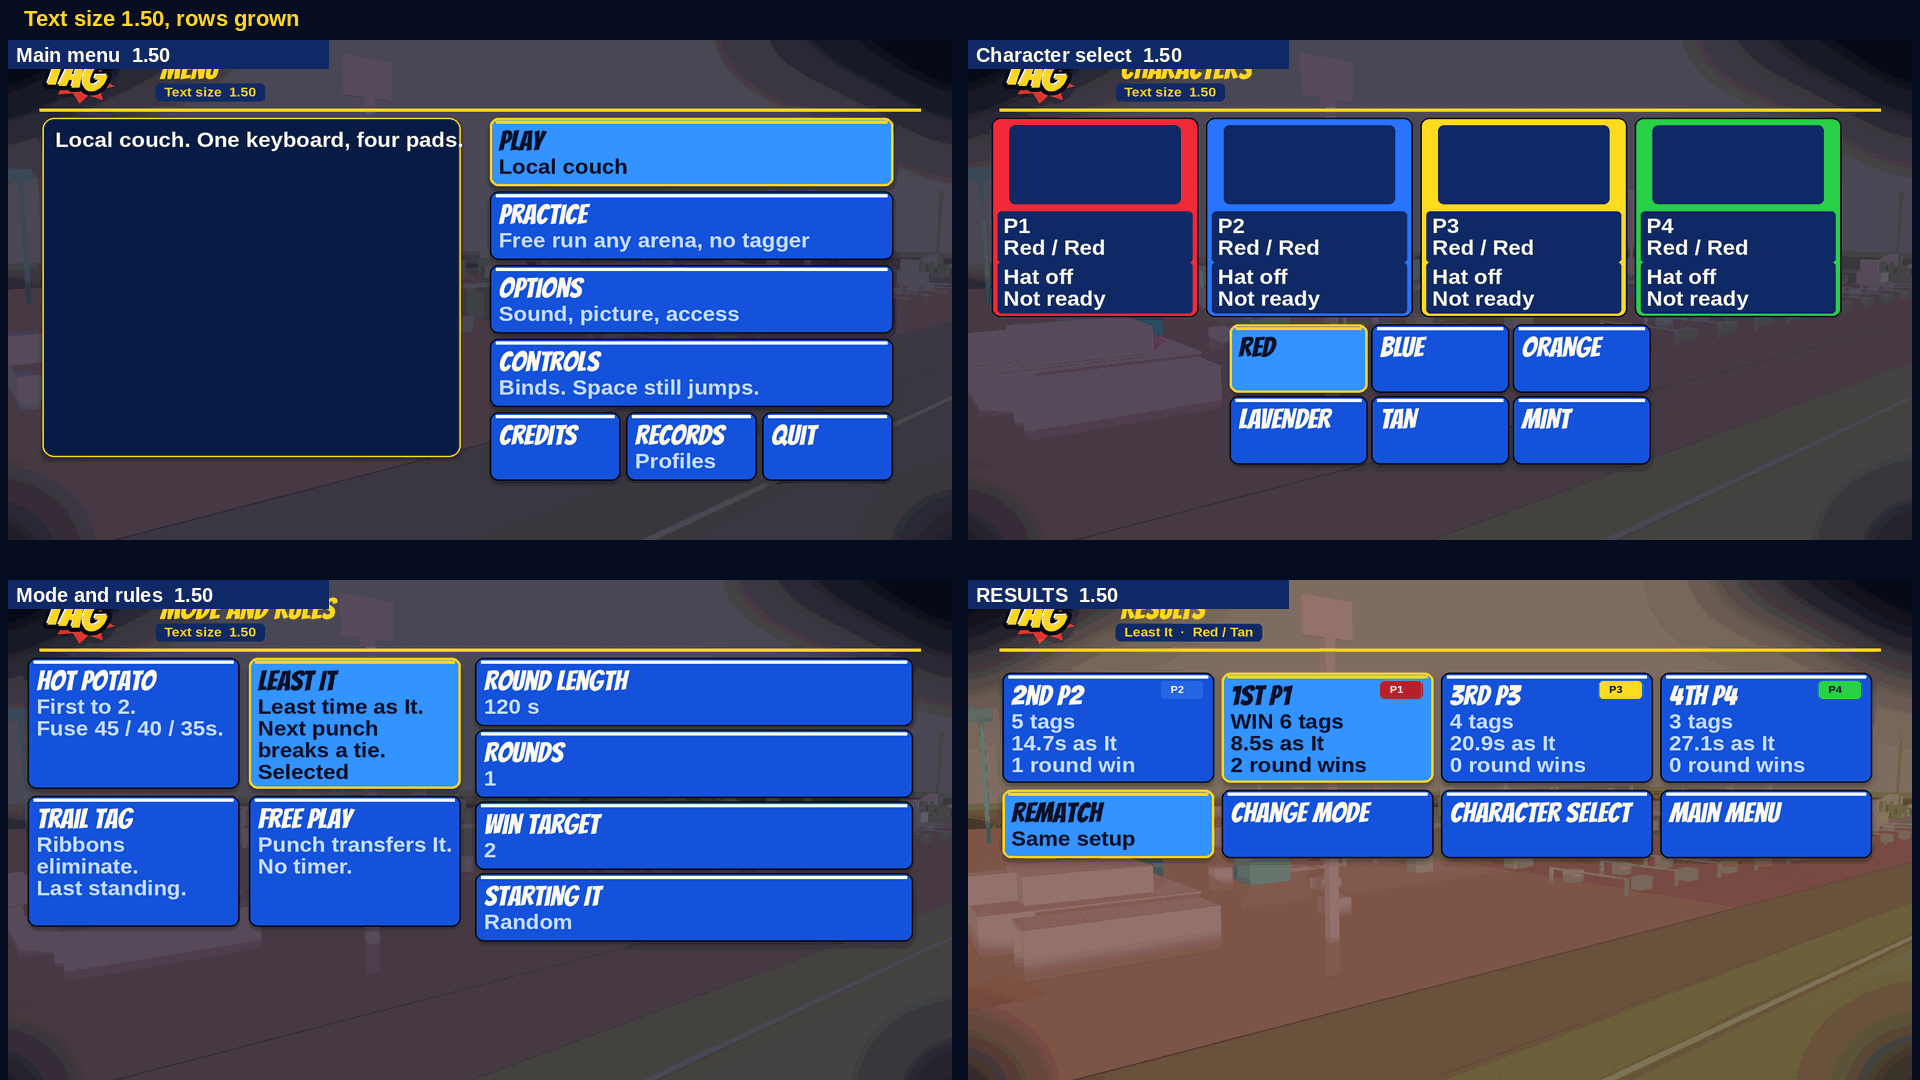
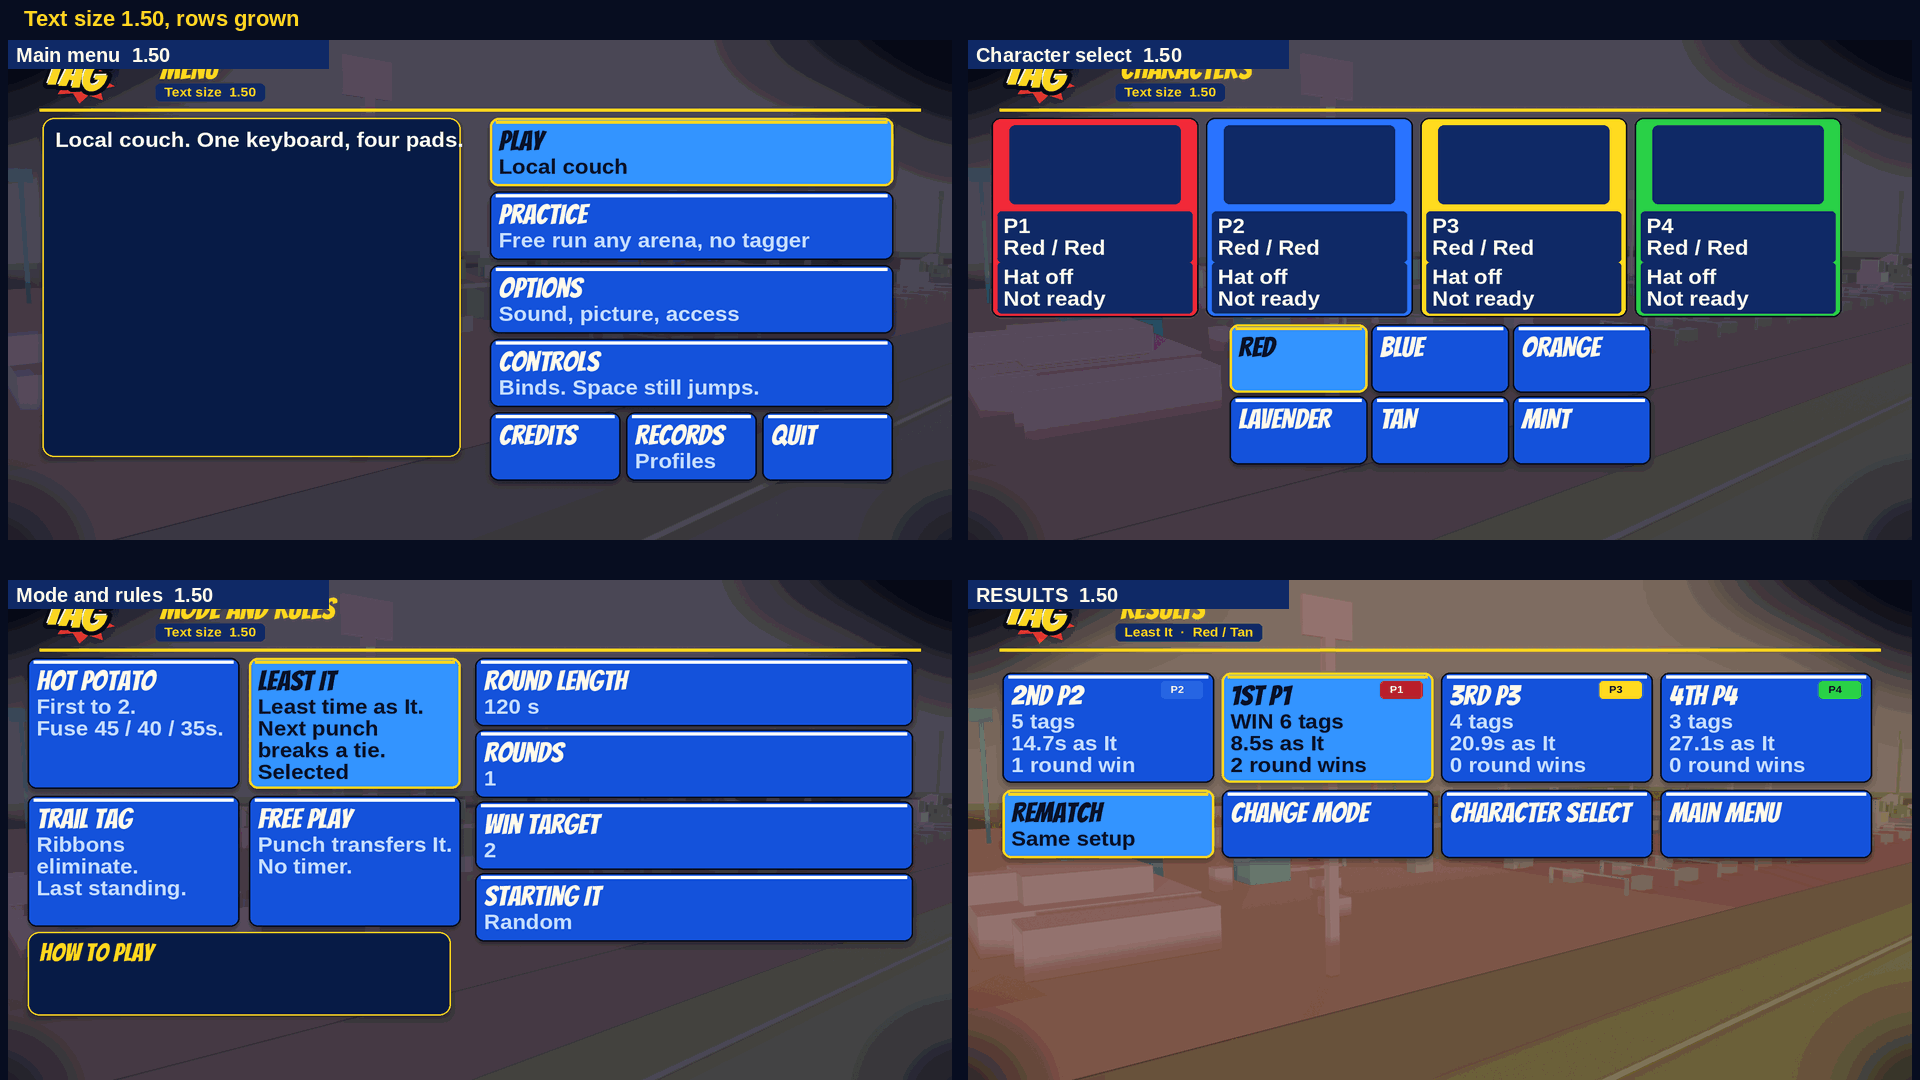
Pass 15: keep the how-to card below the grown mode tiles.
At text size 1.50 the mode tiles are tall enough for a wrapped blurb. The how-to card starts under that block so the two do not overlap.

Changed region(s): [[0.0, 0.8556, 0.25, 0.9472]]

diff --git a/Assets/Scripts/UI/Menu/MenuHowTo.cs b/Assets/Scripts/UI/Menu/MenuHowTo.cs
@@ -19,7 +19,10 @@ namespace Tag.Ui.Menu
                 if (child.name == "HowTo") Object.DestroyImmediate(child.gameObject);
             }
             UiFit.Columns(UiFit.Current(), out float leftX, out float leftW, out _, out _);
-            float y = 360f;
+            float modeH = UiFit.BlockH(152f, 4);
+            float modeStep = UiFit.IdentityText() ? 168f : modeH + 16f;
+            float y = 12f + modeStep + modeH + 12f;
+            if (y < 360f) y = 360f;
             float h = 220f;
             float bodyH = UiFit.BodyH(UiFit.Current());
             if (y + h > bodyH - 8f) h = bodyH - y - 8f;

diff --git a/Tools/UiScreens/render_screens2.py b/Tools/UiScreens/render_screens2.py
@@ -1691,6 +1691,10 @@ def board_rules(scale, grown):
         ratio, tp, sp = paint_lines(img, (950, y, 1840, y + rule_h), title, lines, scale, False, grown)
         ratios.append(ratio)
         locked.append((tp, sp))
+    how_y = 360 if not grown else 168 + mode_step + mode_h + 12
+    plate(img, (40, how_y, 900, min(980, how_y + 180)), (8, 28, 70, 235))
+    d = ImageDraw.Draw(img)
+    d.text((64, how_y + 16), "How to play", font=font(FONT_D, 36 if not grown else type_px(36, scale)), fill=GOLD)
     return img, min(ratios), locked
 
 
